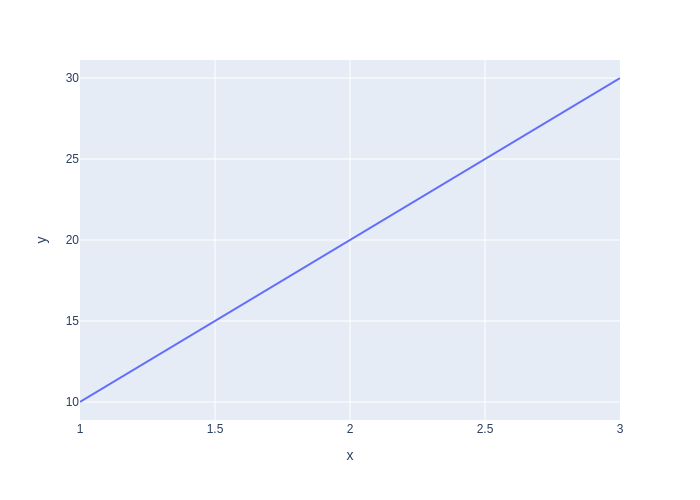
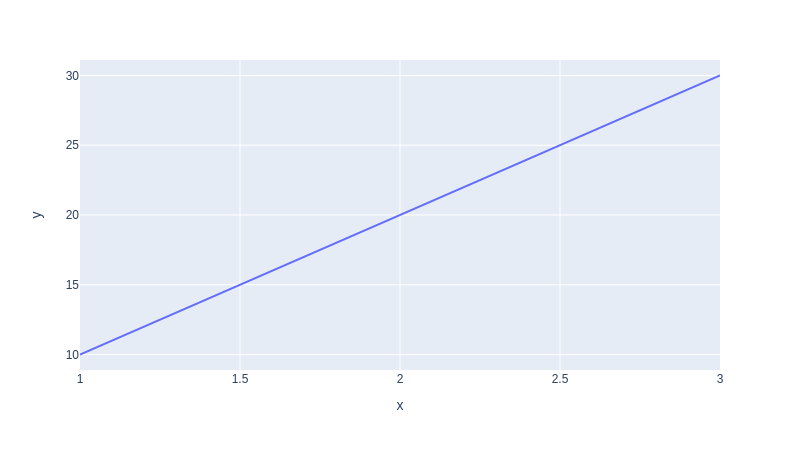
codigo migracao v1

diff --git a/teste.py b/teste.py
@@ -1,11 +1,18 @@
 import plotly.express as px
 import os
 
+import plotly.io as pio
+#pio.defaults.default_format = "png"
+#pio.defaults.default_width = 600
+#pio.defaults.default_height = 400
+
+
+nome = "teste.png"
 try:
     fig = px.line(x=[1, 2, 3], y=[10, 20, 30])
-    print("chamando fig.write_image")
-    fig.write_image("teste1.png")
-    if not os.path.exists("teste.png"):
+    #print("chamando fig.write_image")
+    fig.write_image(nome,  width=800, height=450, scale=1)
+    if not os.path.exists(nome):
         raise FileNotFoundError("Gráfico não foi salvo. Verifique Kaleido ou permissões.")
     print("finalizando")
 except FileNotFoundError as e:

diff --git a/chart_server.py b/chart_server.py
@@ -10,6 +10,9 @@ import time
 #import json
 import os
 
+import sys
+ticker = sys.argv[1]
+
 
 # sslify = SSLify(app)
 OUTPUT_DIR = os.path.abspath(os.path.dirname(__file__))
